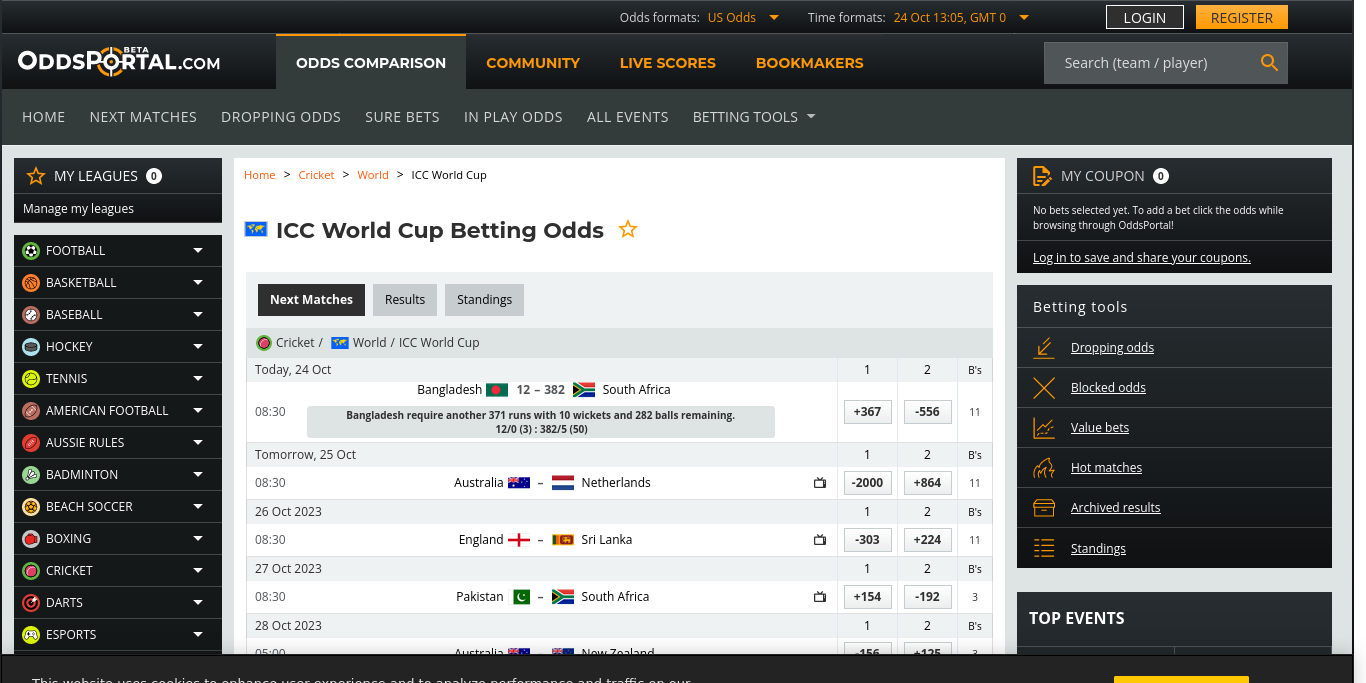
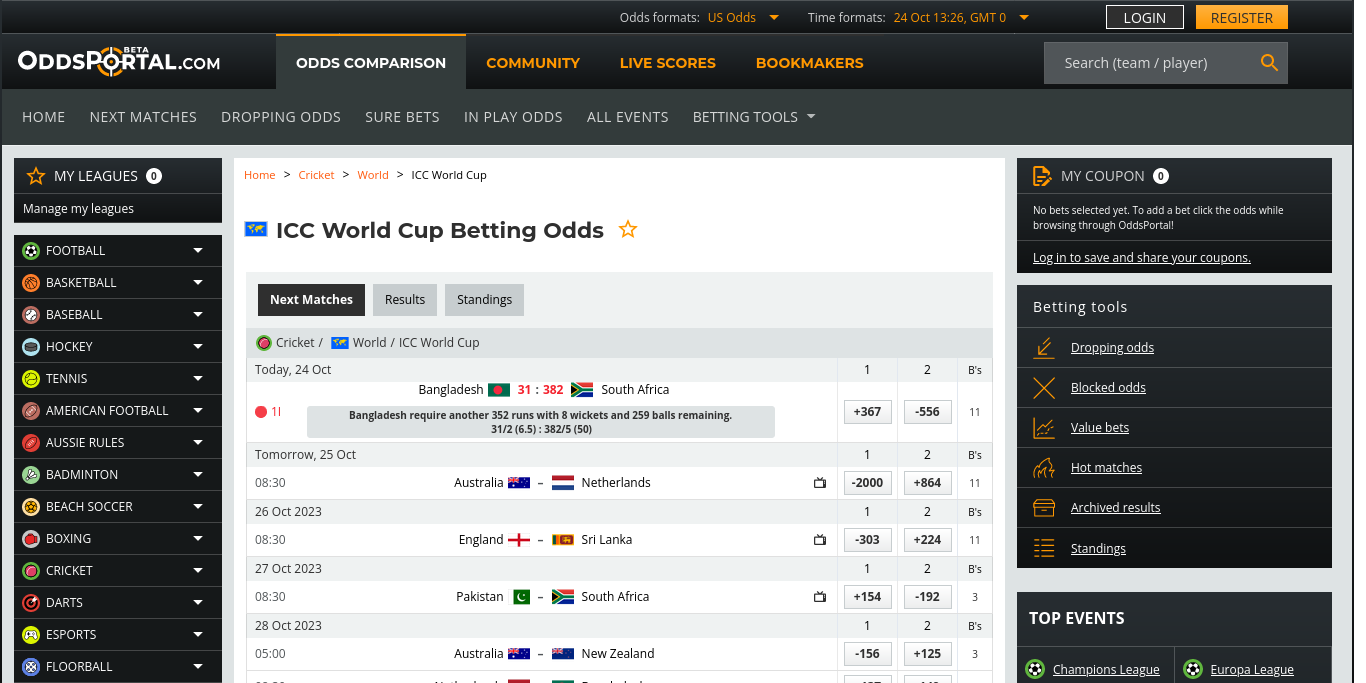
Update Data (Cron) Tue Oct 24 13:26:52 UTC 2023

Changed region(s): [[0.0, 0.9531, 1.0, 1.0], [0.246, 0.5534, 0.5227, 0.6457], [0.1845, 0.5842, 0.2152, 0.6149]]

diff --git a/src/nonview/constants/VERSION.js b/src/nonview/constants/VERSION.js
@@ -1,4 +1,4 @@
 // Auto-generated by javascript_version.py
-export const VERSION_UT = 1698152765;
+export const VERSION_UT = 1698154013;
 export const VERSION_DATETIME = new Date(VERSION_UT * 1_000);
 export const LAST_COMMIT_MESSAGE = "Updated 📊Data";

diff --git a/src/nonview/data/ODI_ID_TO_WINNER.js b/src/nonview/data/ODI_ID_TO_WINNER.js
@@ -1,6 +1,6 @@
 // Auto Generated by UpdateODIIDToWinner
 // https://www.cricbuzz.com/cricket-series/6732/icc-cricket-world-cup-2023/matches
-// 2023-10-24 18:35:36 +0000
+// 2023-10-24 18:56:26 +0000
 
 import { TEAM } from "../core/Team.js";
 

diff --git a/src/nonview/data/TEAM1_ID_TO_TEAM2_ID_TO_ODDS_PAIR.js b/src/nonview/data/TEAM1_ID_TO_TEAM2_ID_TO_ODDS_PAIR.js
@@ -1,6 +1,6 @@
 // Auto Generated by UpdateTeam1IDToTeam2IDToOddsPair
 // https://www.oddsportal.com/cricket/world/icc-world-cup/
-// 2023-10-24 18:35:57 +0000
+// 2023-10-24 18:56:46 +0000
 
 import { TEAM } from "../core/Team.js";
 

diff --git a/src/nonview/data/POINTS_TABLE.js b/src/nonview/data/POINTS_TABLE.js
@@ -1,6 +1,6 @@
 // Auto Generated by UpdatePointsTable
 // https://www.cricketworldcup.com/standings
-// 2023-10-24 18:35:47 +0000
+// 2023-10-24 18:56:37 +0000
 
 import { TEAM } from "../core/Team.js";
 
